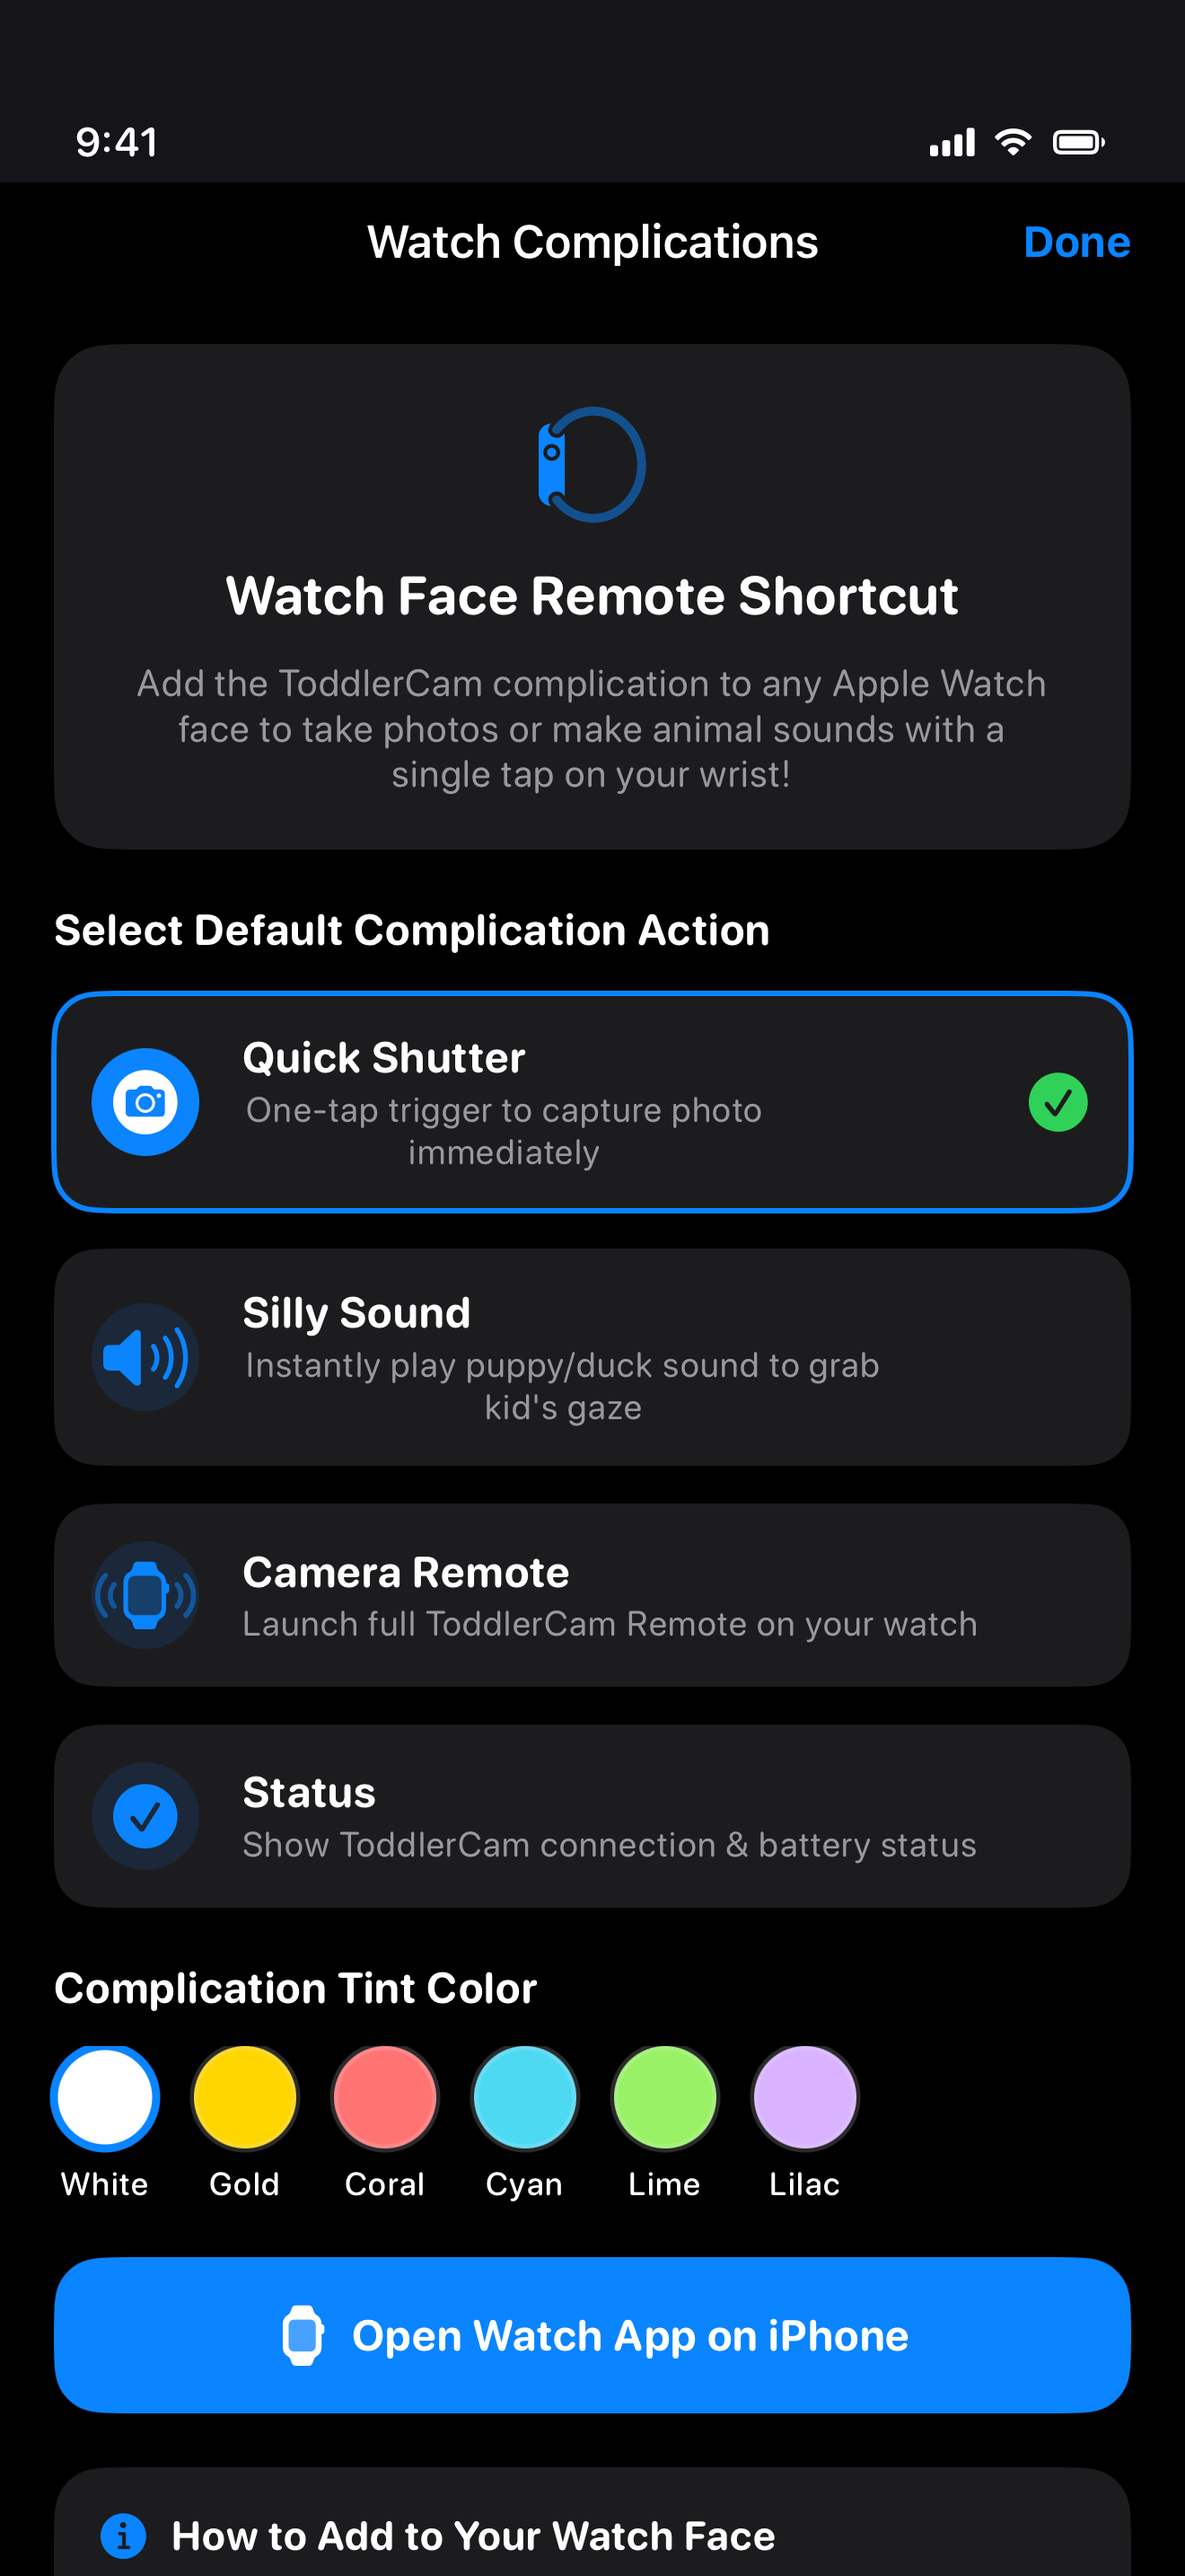
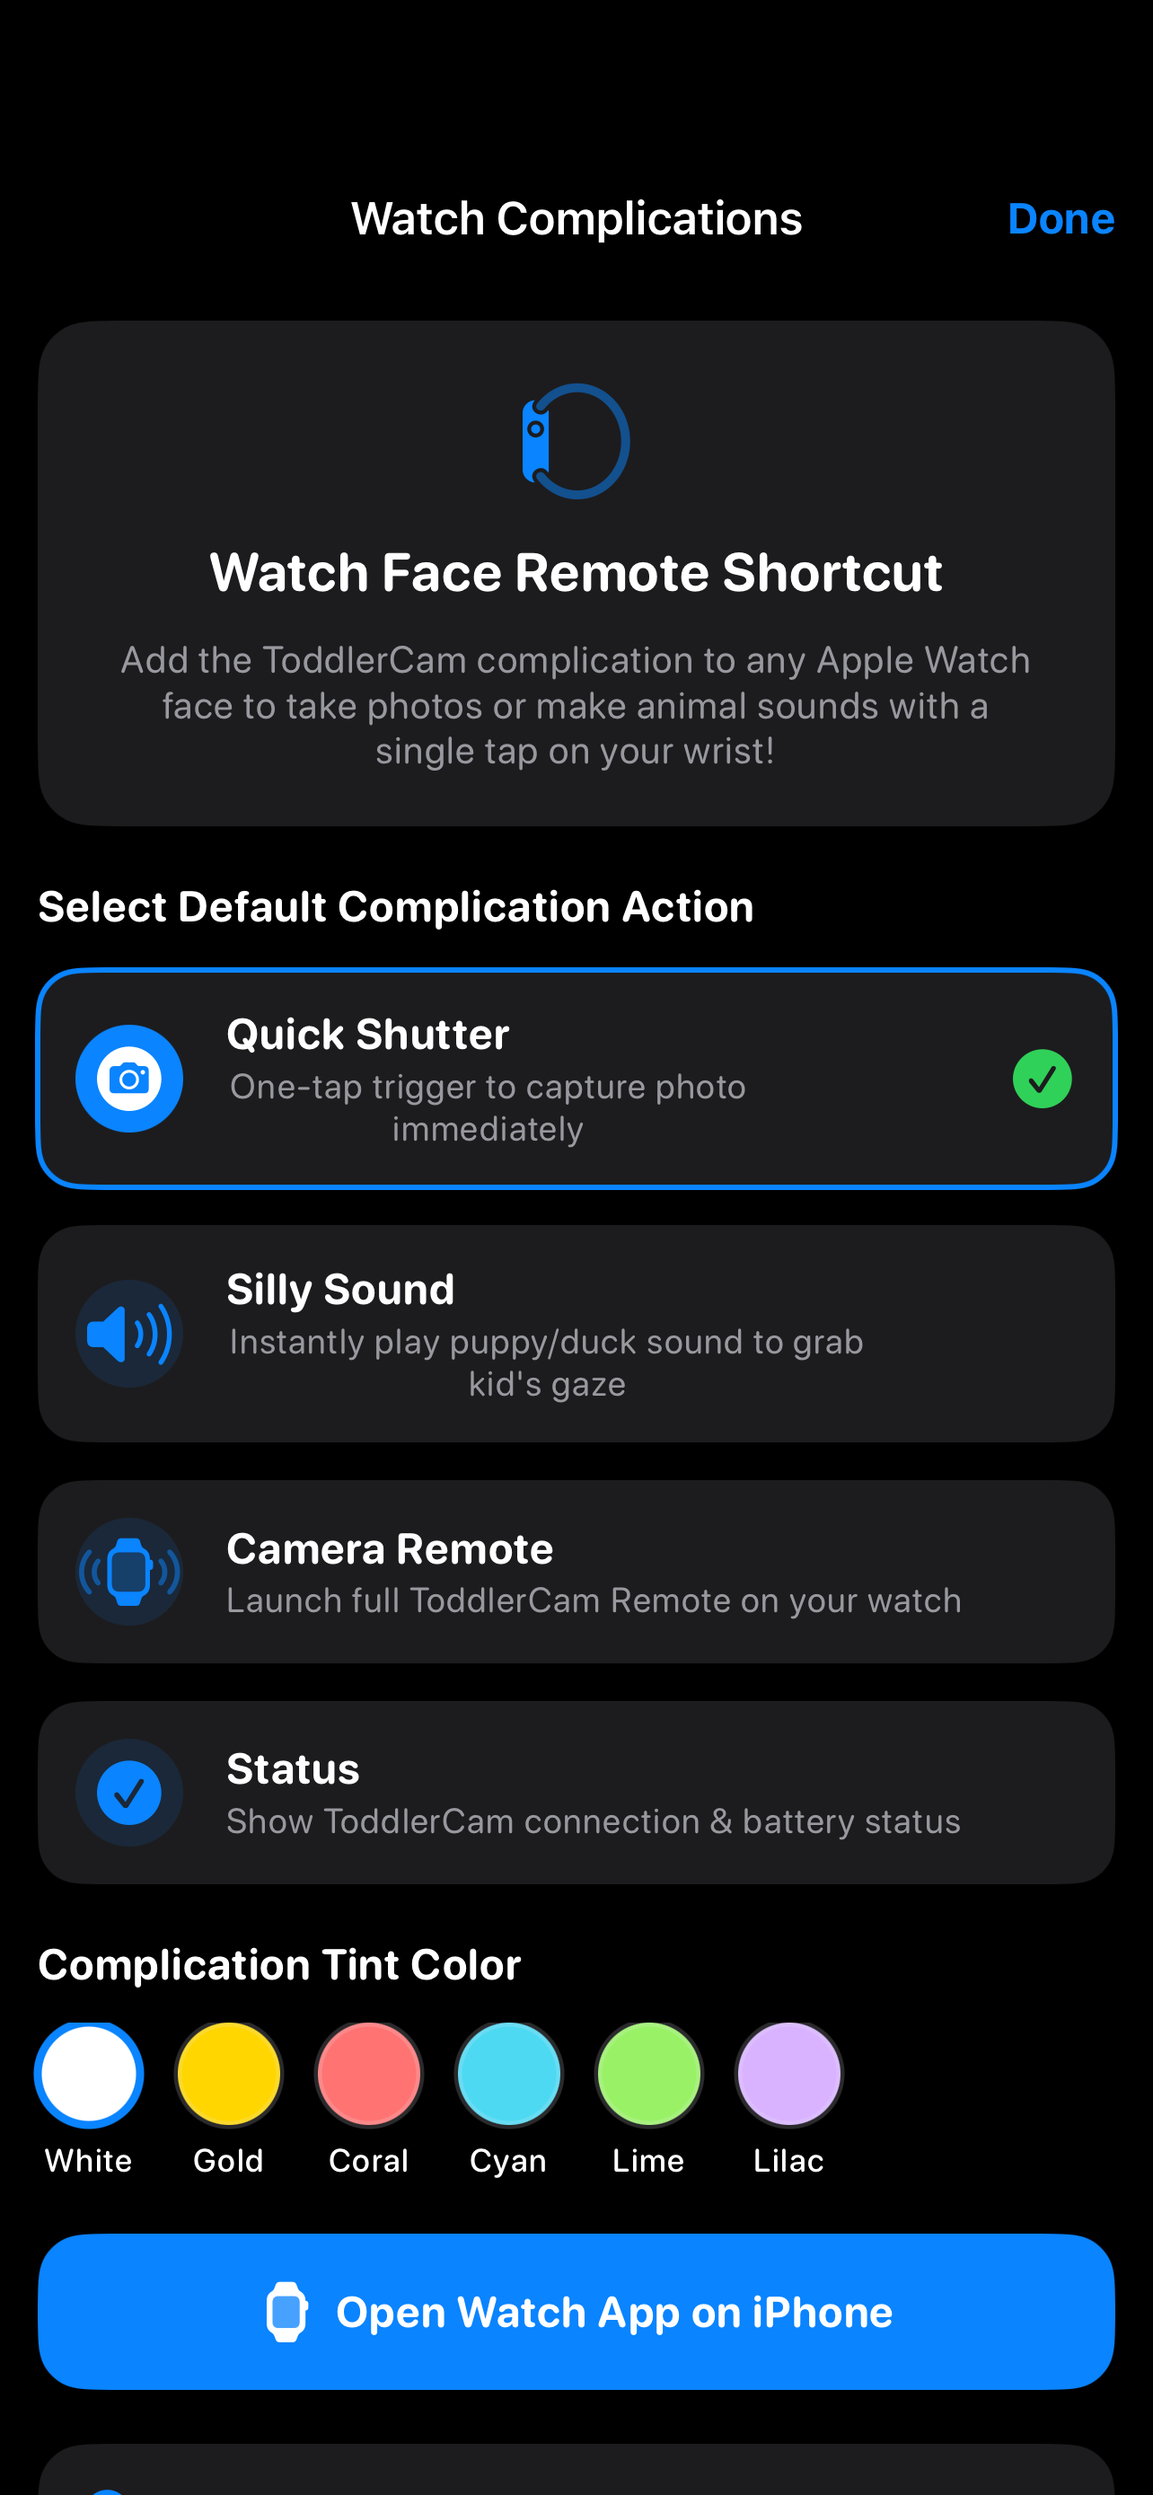
fix(screenshots): update iPhone screenshot dimensions to 1284x2778 for App Store 6.5" display

diff --git a/KidsCamTests/KidsCamTests.swift b/KidsCamTests/KidsCamTests.swift
@@ -322,17 +322,17 @@ final class KidsCamTests: XCTestCase {
             backImage: natureImg
         )
 
-        // 1. appstore_iphone_fullscreen_pip.png (1320 x 2868) - Baby Large, Nature PiP, Flying Lion
+        // 1. appstore_iphone_fullscreen_pip.png (1284 x 2778) - Baby Large, Nature PiP, Flying Lion
         camera.demoBabyIsPrimary = true
         FaceTrackingManager.shared.setActiveFilter(.lion)
         FaceTrackingManager.shared.mockBabyFaceDetection()
         saveIPhoneScreenshot(view: ToddlerCameraView(), filename: "appstore_iphone_fullscreen_pip.png")
 
-        // 2. simulator_toddlercam.png (1320 x 2868) - Baby Large, Nature PiP, Flying Crown
+        // 2. simulator_toddlercam.png (1284 x 2778) - Baby Large, Nature PiP, Flying Crown
         FaceTrackingManager.shared.setActiveFilter(.crown)
         saveIPhoneScreenshot(view: ToddlerCameraView(), filename: "simulator_toddlercam.png")
 
-        // 3. iphone_video_playing.png (1320 x 2868) - Interactive touch sounds & bubbles
+        // 3. iphone_video_playing.png (1284 x 2778) - Interactive touch sounds & bubbles
         FaceTrackingManager.shared.setActiveFilter(.lion)
         let touchAnywhereDemo = ZStack {
             ToddlerCameraView()
@@ -363,26 +363,26 @@ final class KidsCamTests: XCTestCase {
         }
         saveIPhoneScreenshot(view: touchAnywhereDemo, filename: "iphone_video_playing.png")
 
-        // 4. live_dual_video_stream.png (1320 x 2868) - Dual Camera View with Unicorn Companion
+        // 4. live_dual_video_stream.png (1284 x 2778) - Dual Camera View with Unicorn Companion
         FaceTrackingManager.shared.setActiveFilter(.unicorn)
         saveIPhoneScreenshot(view: ToddlerCameraView(), filename: "live_dual_video_stream.png")
         FaceTrackingManager.shared.setActiveFilter(.lion)
 
-        // 5. after_grant.png (1320 x 2868) - Guided Access Guide Sheet
+        // 5. after_grant.png (1284 x 2778) - Guided Access Guide Sheet
         saveIPhoneScreenshot(view: DeviceSheetContainer { GuidedAccessGuideView() }, filename: "after_grant.png")
 
-        // 6. system_camera_prompt.png (1320 x 2868) - Toddler Safe Lock Screen
+        // 6. system_camera_prompt.png (1284 x 2778) - Toddler Safe Lock Screen
         camera.isToddlerLocked = true
         saveIPhoneScreenshot(view: ToddlerCameraView(), filename: "system_camera_prompt.png")
         camera.isToddlerLocked = false
 
-        // 7. live_video_footage.png (1320 x 2868) - Keepsake Dual Photo Output
+        // 7. live_video_footage.png (1284 x 2778) - Keepsake Dual Photo Output
         saveIPhoneScreenshot(view: KeepsakePhotoReviewScreenshotView(photo: sampleComposite), filename: "live_video_footage.png")
 
-        // 8. iphone_paired_live.png (1320 x 2868) - Watch Face Studio
+        // 8. iphone_paired_live.png (1284 x 2778) - Watch Face Studio
         saveIPhoneScreenshot(view: DeviceSheetContainer { WatchFaceStudioView() }, filename: "iphone_paired_live.png")
 
-        // 9. iphone_permission_dialog.png (1320 x 2868) - Parent Hub Settings
+        // 9. iphone_permission_dialog.png (1284 x 2778) - Parent Hub Settings
         saveIPhoneScreenshot(view: DeviceSheetContainer { ParentHubView() }, filename: "iphone_permission_dialog.png")
 
         // 10. appstore_watch_remote.png (416 x 496) - Apple Watch Remote (Main)
@@ -417,12 +417,12 @@ final class KidsCamTests: XCTestCase {
 
     private func saveIPhoneScreenshot<V: View>(view: V, filename: String) {
         let controller = UIHostingController(rootView: view)
-        controller.view.bounds = CGRect(x: 0, y: 0, width: 440, height: 956)
+        controller.view.bounds = CGRect(x: 0, y: 0, width: 428, height: 926)
         controller.view.backgroundColor = .black
         controller.view.layoutIfNeeded()
 
         let format = UIGraphicsImageRendererFormat()
-        format.scale = 3.0 // 440*3 = 1320, 956*3 = 2868
+        format.scale = 3.0 // 428*3 = 1284, 926*3 = 2778 (App Store 6.5" requirement)
         let renderer = UIGraphicsImageRenderer(size: controller.view.bounds.size, format: format)
         let image = renderer.image { _ in
             controller.view.drawHierarchy(in: controller.view.bounds, afterScreenUpdates: true)

diff --git a/AppStore/APP_STORE_METADATA.md b/AppStore/APP_STORE_METADATA.md
@@ -152,7 +152,7 @@ Contact Email: review-contact@hejitech.com
 
 ## 7. Screenshot Assets & Copy
 
-### A. iPhone Screenshots (6.9" Display — 1320 x 2868)
+### A. iPhone Screenshots (6.5" / 6.7" Display — 1284 x 2778)
 1. **`appstore_iphone_fullscreen_pip.png`**: Dual Camera Fun (AI-generated toddler selfie large view + Car interior PiP + orbiting Lion companion).
 2. **`simulator_toddlercam.png`**: Magical Face Masks (AI-generated toddler selfie large view + Car interior PiP + orbiting Royal Crown).
 3. **`iphone_video_playing.png`**: Interactive Sound Canvas (Touch anywhere for bubbly giggles, duck quacks, and pop particles).
